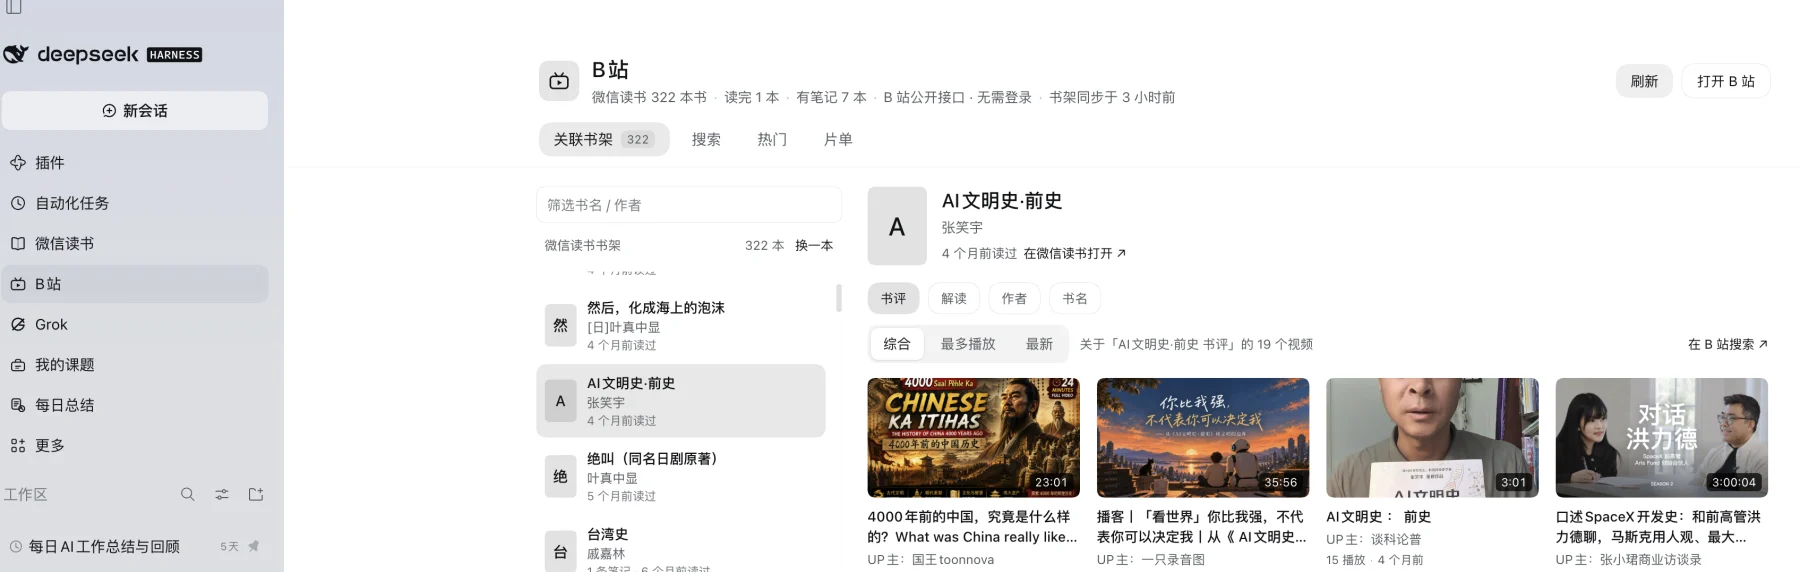
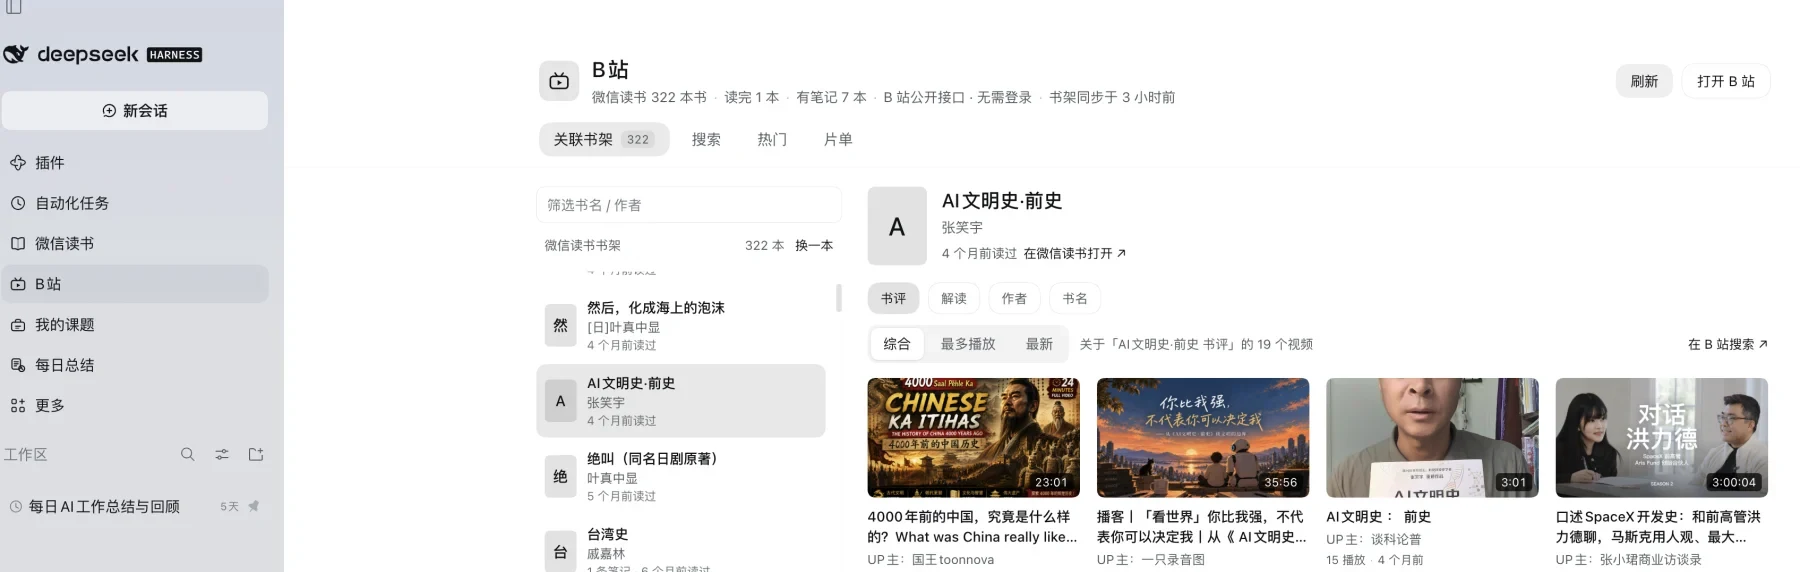
Edit note: DSH workbench — drop Grok plugin section, trim ~20%

diff --git a/notes/2026-11-05-dsh-workbench.html b/notes/2026-11-05-dsh-workbench.html
@@ -4,11 +4,11 @@
 <meta charset="UTF-8">
 <meta name="viewport" content="width=device-width, initial-scale=1.0">
 <title>DSH 工作台：把书、课题和 B 站收进一扇窗 · 劳伦斯实验室</title>
-<meta name="description" content="一晚上长出来的五个入口：微信读书、B 站、Grok、我的课题与每日总结，以及一本书、一个课题、一条视频之间那条终于接上的线。一篇 DSH 插件开发手记。">
+<meta name="description" content="一晚上长出来的四个入口：微信读书、B 站、我的课题与每日总结，以及一本书、一个课题、一条视频之间那条终于接上的线。一篇 DSH 插件开发手记。">
 <meta name="keywords" content="DSH,DeepSeek Harness,插件,微信读书,B站,课题,手记">
 <link rel="canonical" href="https://shuzidiantang.com/notes/2026-11-05-dsh-workbench.html">
 <meta property="og:title" content="DSH 工作台：把书、课题和 B 站收进一扇窗">
-<meta property="og:description" content="一晚上长出来的五个入口：微信读书、B 站、Grok、我的课题与每日总结，以及一本书、一个课题、一条视频之间那条终于接上的线。">
+<meta property="og:description" content="一晚上长出来的四个入口：微信读书、B 站、我的课题与每日总结，以及一本书、一个课题、一条视频之间那条终于接上的线。">
 <meta property="og:type" content="article">
 <meta property="og:url" content="https://shuzidiantang.com/notes/2026-11-05-dsh-workbench.html">
 <meta property="og:image" content="https://shuzidiantang.com/notes/og/2026-11-05-dsh-workbench.png">
@@ -89,30 +89,29 @@
 <main>
   <article>
     <h1>DSH 工作台：把书、课题和 <span class="nw">B 站</span>收进一扇窗</h1>
-    <p class="meta"><time datetime="2026-11-05">2026-11-05</time> · 约 900 字 · 分类：AI 手记</p>
+    <p class="meta"><time datetime="2026-11-05">2026-11-05</time> · 约 960 字 · 分类：AI 手记</p>
     <div class="article-copy">
-<p>晚上十一点四十二，我截了这张图。左边是 DSH 的侧栏：插件、自动化任务，往下依次是微信读书、B 站、Grok、我的课题、每日总结；右边是我书架里的 322 本书，和其中一本在 B 站的 19 个书评视频。从「我在读什么」到「别人怎么看这本书」，只隔一次点击。</p>
+<p>晚上十一点四十二，我截了这张图：左边是 DSH 侧栏里的微信读书、B 站、我的课题、每日总结，右边是书架里的 322 本书，和其中一本在 B 站的 19 个书评视频。从「我在读什么」到「别人怎么看这本书」，只隔一次点击。</p>
 <p>在这之前，它们分在三个地方：微信读书、文件夹和 B 站的搜索框。</p>
 <figure class="note-figure">
   <img src="../assets/img/notes/2026-11-05-dsh-workbench-01.webp" alt="同一扇窗：左边是微信读书书架里的 322 本书，右边是其中一本在 B 站的 19 个书评视频" loading="eager">
   <figcaption>图 1 · 同一扇窗：左边是微信读书书架里的 322 本书，右边是其中一本在 B 站的 19 个「书评」视频。</figcaption>
 </figure>
 <h2>一、插件不是补丁，是地基</h2>
-<p>DSH 本来是个智能工作台，插件让它不止于此：装上插件，界面里就能长出自己的位置——侧栏入口、整页面板，还有浮在界面上的小窗。插件是个小目录：后台那一半跑在 DSH 进程里取数据、读文件、写缓存，页面那一半负责画界面，两边用只读接口传数据。装、停、回滚在插件管理器里点一点，不碰主程序。</p>
-<p>更关键的是它能碰到「脑子」：Grok 除了侧栏聊天，还进了主对话的模型选择。这些插件不是我一个个敲的——我说清需求，小深写、装、测，刷新就能用。20:02 我提「把微信读书接进来」，20:15 面板就能看书架；20:21 提「在下面关联 B 站」，六分四十四秒后装好了。一个晚上，五个入口。</p>
-<h2>二、五个入口</h2>
-<p><strong>微信读书</strong>是一块只读的阅读面板：书架、笔记、统计、设置四个页签。322 本书，有笔记 7 本；统计页里是 846 天、约 340 小时。密钥只存本机，点「同步」才拉一次。</p>
-<p><strong>B 站</strong>是它的邻居：选中一本书，右边先看它的划线、想法、书签和读到哪儿，再按「书评 / 解读 / 作者 / 书名」四种方式搜视频。视频能直接在内嵌播放器里看，点星标收进本地片单；不登录 B 站，只用公开接口。</p>
-<p><strong>我的课题</strong>收的是本机工作区里做出来的东西：18 件作品、7 个立项课题，电子书、程序、研究、学习都在里面；卡片上有状态、路径和 B 站搜索按钮，课题表有「下一步」，哪个停着一眼看得见。<strong>每日总结</strong>是同一个插件的第二个入口，翻每天 23:59 归档的工作日报。</p>
+<p>插件让 DSH 不止是个智能工作台：装上插件，界面里就能长出侧栏入口、整页面板和浮在界面上的小窗。插件是个小目录：后台那一半跑在 DSH 进程里取数据、读文件、写缓存，页面那一半负责画界面，两边用只读接口传数据，装、停、回滚都不碰主程序。</p>
+<p>这些插件不是我一个个敲的——我说清需求，小深写、装、测，刷新就能用。20:02 我提「把微信读书接进来」，20:15 面板就能看书架；20:21 提「在下面关联 B 站」，六分四十四秒后装好了。一个晚上，四个入口。</p>
+<h2>二、四个入口</h2>
+<p><strong>微信读书</strong>是只读的阅读面板：书架、笔记、统计、设置四个页签。322 本书，有笔记 7 本；统计页里是 846 天、约 340 小时。密钥只存本机，点「同步」才拉一次。</p>
+<p><strong>B 站</strong>是它的邻居：选中一本书，先看它的划线、想法、书签和读到哪儿，再按「书评 / 解读 / 作者 / 书名」搜视频。视频能在内嵌播放器里直接看，点星标收进本地片单；不登录，只用公开接口。</p>
+<p><strong>我的课题</strong>收的是本机工作区里做出来的东西：18 件作品、7 个立项课题，卡片上有状态、路径和 B 站搜索按钮，课题表有「下一步」。<strong>每日总结</strong>是同一个插件的第二个入口，翻每天 23:59 归档的工作日报。</p>
 <figure class="note-figure">
   <img src="../assets/img/notes/2026-11-05-dsh-workbench-02.webp" alt="我的课题：18 件作品、7 个立项课题，卡片上带状态、下一步与 B 站搜索按钮" loading="lazy">
   <figcaption>图 2 · 我的课题：18 件作品、7 个立项课题，状态、下一步和 B 站搜索都收在一张卡片上。</figcaption>
 </figure>
 <h2>三、书、课题、视频：连成一条线</h2>
-<p>真正有意思的不是入口，而是它们能互相找到。书是「问题」的入口：322 本书不是收藏，是待办，划线和想法是线索。课题是「沉淀」：立项表和工作区目录是一回事的两面，标题和关键词随时能换回一批视频。B 站是「外延」：书评看评价，解读看梗概，作者访谈认人，书名找讲座和课程。四种搜法对应四种想听的东西，比在大搜索框里碰运气准。</p>
-<p>今晚：书架上翻到《叙利亚：权力交汇下的破碎之地》，想摸背景就去旁边的 B 站——书评、高清文明史、两百年独立挣扎的解读、巴沙尔最后影像，再加一个 29 分钟的中东局势。点星标收两三个，回到工作区继续写。</p>
-<p>这条线是：在书架上遇见问题，在课题里放下问题，在 B 站上听见别人的回答，回到自己的稿子里写下来。</p>
-<p>写这篇手记时，我又点开 B 站的关联书架：刚才那本书旁边排着 19 个视频，往左是它的位置，再往左是我的课题。书还在书架上，视频还在 B 站，课题还在文件夹里，只是它们现在都在同一扇窗里。</p>
+<p>真正有意思的不是入口，而是它们能互相找到。书是「问题」的入口：322 本书不是收藏，是待办，划线和想法是线索。课题是「沉淀」：立项表和工作区目录是一回事的两面。B 站是「外延」：书评看评价，解读看梗概，作者访谈认人，书名找讲座和课程。</p>
+<p>今晚翻到《叙利亚：权力交汇下的破碎之地》，想摸背景就去旁边的 B 站：书评、高清文明史、两百年独立挣扎的解读、巴沙尔最后影像，收两三个，回工作区继续写。</p>
+<p>这条线是：在书架上遇见问题，在课题里放下，在 B 站听见别人的回答，再回到自己的稿子里写下来。</p>
     </div>
 
     <a class="note-back" href="https://shuzidiantang.com/notes/">← 返回手记列表</a>

diff --git a/src/data/site.ts b/src/data/site.ts
@@ -375,7 +375,7 @@ export const notes = [
     date: '2026-11-05',
     category: 'AI 手记',
     href: '/notes/2026-11-05-dsh-workbench.html',
-    summary: '一晚上长出来的五个入口：微信读书、B 站、Grok、我的课题与每日总结，以及一本书、一个课题、一条视频之间那条终于接上的线。',
+    summary: '一晚上长出来的四个入口：微信读书、B 站、我的课题与每日总结，以及一本书、一个课题、一条视频之间那条终于接上的线。',
   },
   {
     title: 'DSH桌面伴侣：AI干活你休闲',
